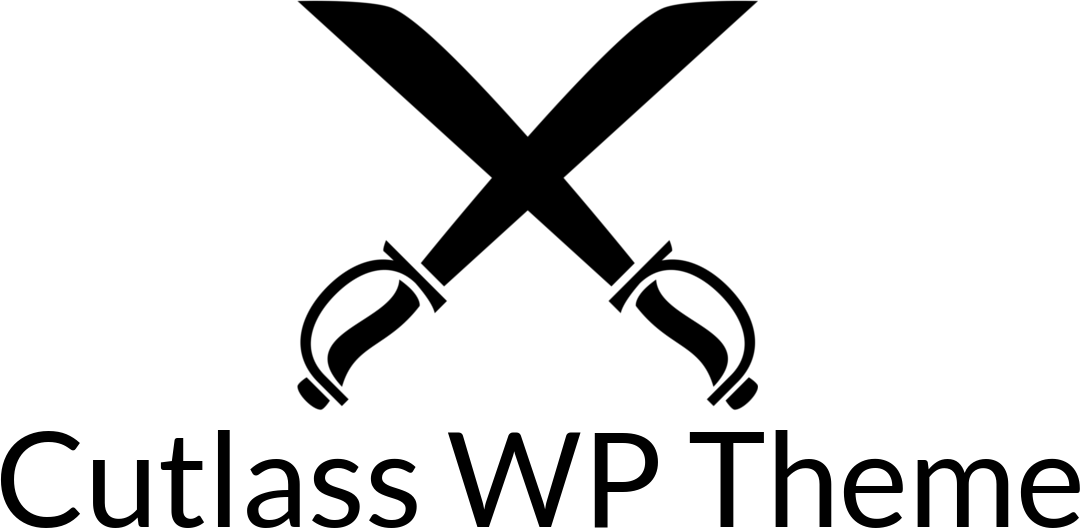
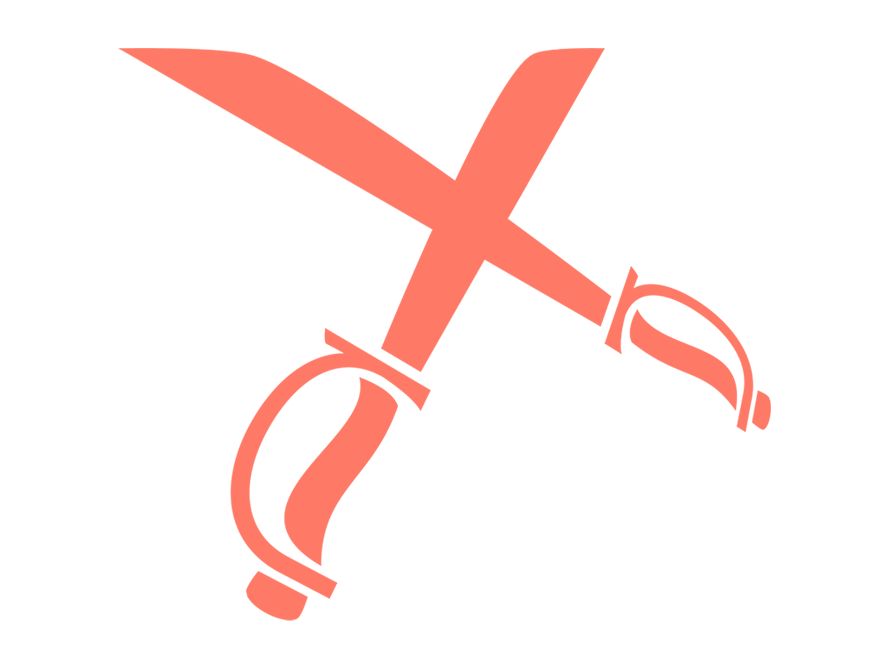
added welcome page and new screenshot image

Changed region(s): [[0.0, 0.0, 1.0, 1.0]]

diff --git a/resources/views/welcome.blade.php b/resources/views/welcome.blade.php
@@ -1,0 +1,50 @@
+<!DOCTYPE html>
+<html>
+<head>
+    <title>Cutlass</title>
+
+    <link href="https://fonts.googleapis.com/css?family=Lato:100" rel="stylesheet" type="text/css">
+
+    <style>
+        html, body {
+            height: 100%;
+        }
+
+        body {
+            margin: 0;
+            padding: 0;
+            width: 100%;
+            display: table;
+            font-weight: 100;
+            font-family: 'Lato';
+        }
+
+        img {
+            border-radius:7px;
+        }
+
+        .container {
+            text-align: center;
+            display: table-cell;
+            vertical-align: middle;
+        }
+
+        .content {
+            text-align: center;
+            display: inline-block;
+        }
+
+        .title {
+            font-size: 96px;
+        }
+    </style>
+</head>
+<body>
+<div class="container">
+    <div class="content">
+        <img src="{{ asset('images/cutlass-logo.png') }}" width="150" height="auto">
+        <div class="title">Cutlass Starter Theme</div>
+    </div>
+</div>
+</body>
+</html>

diff --git a/front-page.php b/front-page.php
@@ -8,6 +8,8 @@ use Cutlass\Cutlass;
 |
 | This is the template for displaying the Static Front Page. This template
 | is used when there is a static front page set in the WordPress settings.
+| By default it's set to the welcome page, you can set it to whatever you
+| like!
 |
 | https://codex.wordpress.org/Creating_a_Static_Front_Page#Theme_Development_for_Custom_Front_Page_Templates
 |
@@ -15,4 +17,4 @@ use Cutlass\Cutlass;
 
 $post = Cutlass::get_post();
 
-Cutlass::render('pages.page', compact('post'));
+Cutlass::render('welcome', compact('post'));

diff --git a/home.php b/home.php
@@ -16,4 +16,4 @@ use Cutlass\Cutlass;
 $post = Cutlass::get_post();
 $posts = Cutlass::get_posts();
 
-Cutlass::render('pages.page', compact('post', 'posts'));
+Cutlass::render('pages.index', compact('post', 'posts'));
